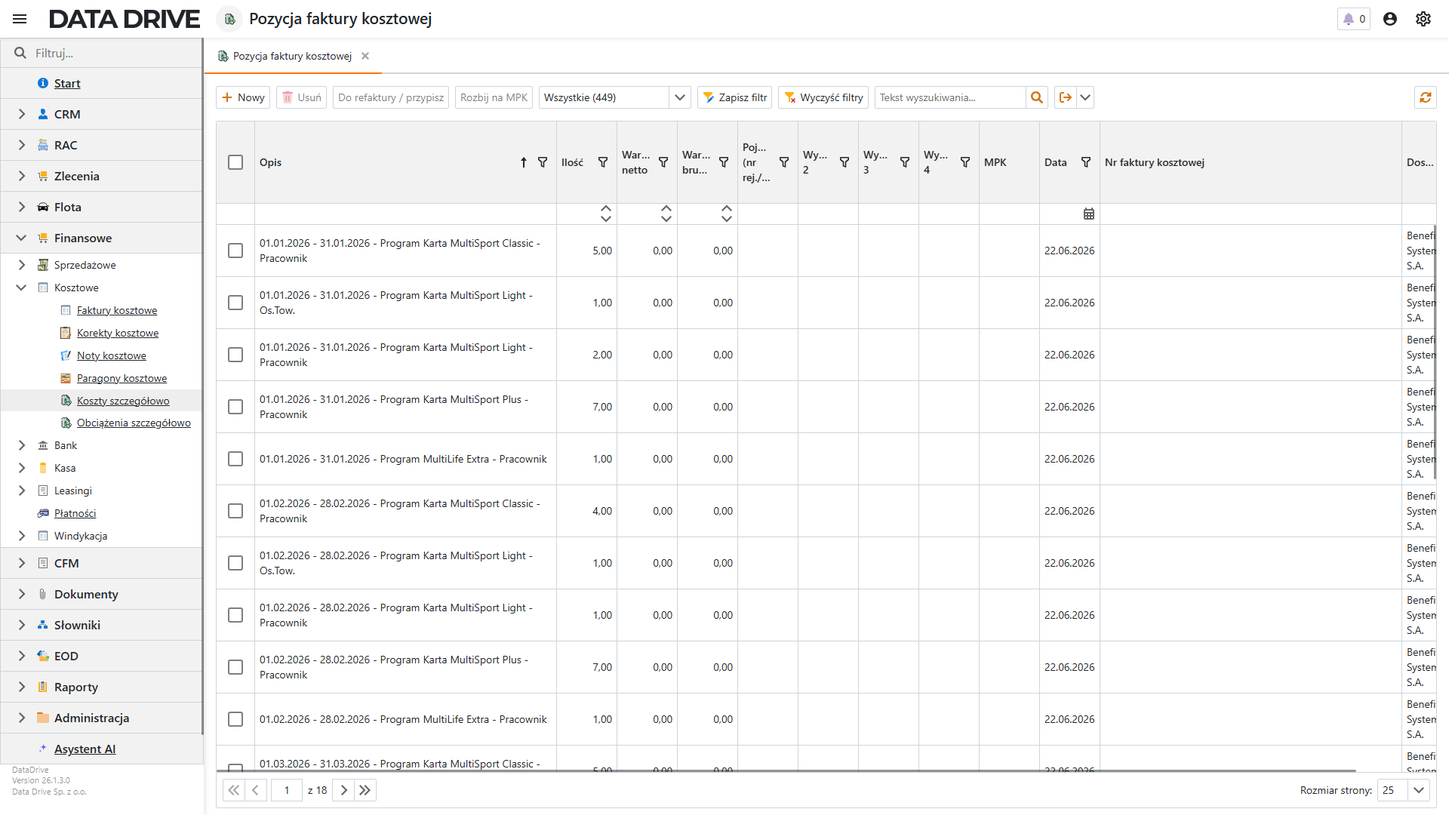
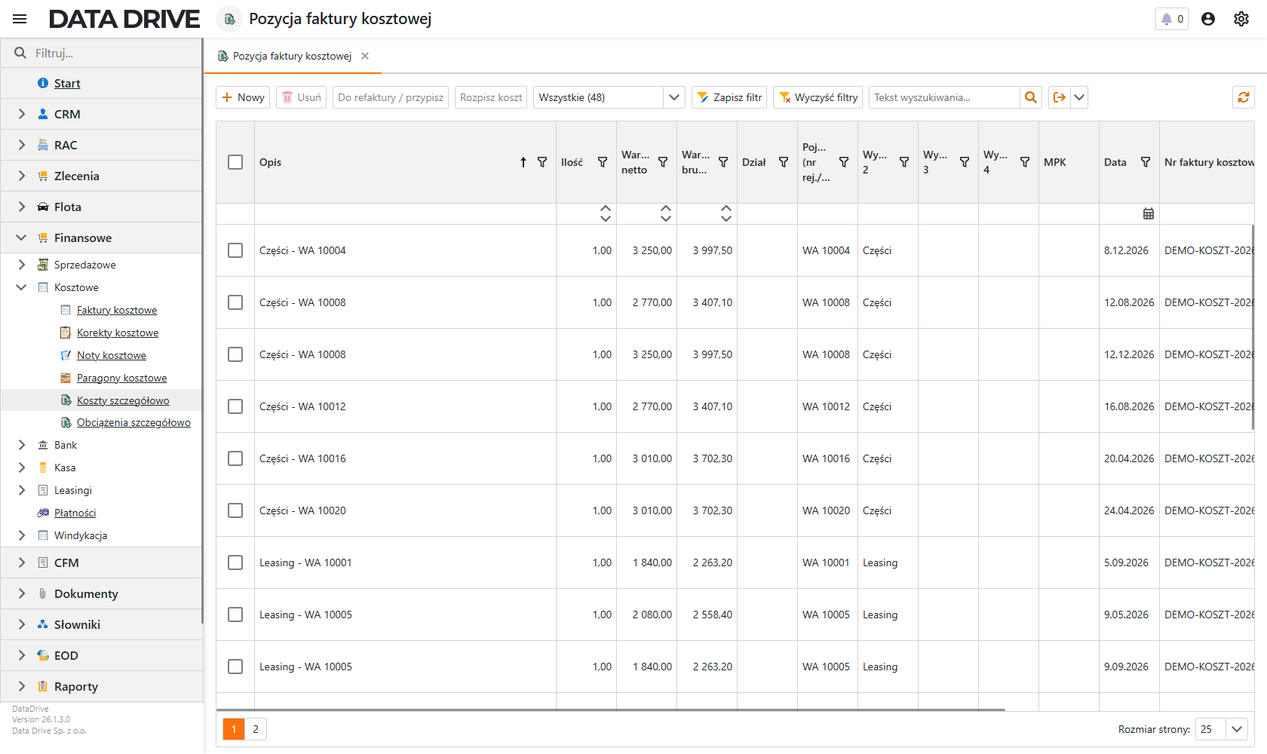
Podręcznik: widoki szczegółów i omówienie pól w czterech rozdziałach
Rozliczanie kosztów: wymyślone tabelki „planowanego podziału" zastąpione
realnymi ekranami dwuetapowego rozpisania kosztu (liczba części → siatka
pozycji wynikowych z kontrolą sum → wynik na liście), nowa sekcja
przypisania zbiorczego „Do refaktury / przypisz", omówienie kolumn listy
i wszystkich pól karty pozycji. Zrzuty listy i karty odświeżone — poprzednie
pokazywały zerowe kwoty i nieaktualną nazwę akcji.

Parkingi: karta miejsca parkingowego z omówieniem pól.
Flota: karta zdarzenia serwisowego (wypełniona) z omówieniem pól.
Faktury: karta produktu z omówieniem pól katalogu.

Claude-Session: https://claude.ai/code/session_01R2rkK8S6FK1ub1dPoNnos2

diff --git a/datadrive/rozliczanie-kosztow/index.html b/datadrive/rozliczanie-kosztow/index.html
@@ -35,12 +35,14 @@
       <a href="#zrodla">Źródła danych</a>
       <a href="#transakcje">Lista transakcji</a>
       <a href="#wymiary">Wymiary kosztowe</a>
-      <a href="#kategoria">Kategoria kosztu</a>
+      <a href="#kategoria">Koszty szczegółowo</a>
+      <a href="#pozycja-detal">Pozycja faktury kosztowej</a>
+      <a href="#przypisanie-zbiorcze">Przypisanie zbiorcze</a>
       <a href="#produkty">Produkty ujednolicone</a>
       <a href="#konsolidacja">Konsolidacja produktów</a>
       <a href="#analizy">Analiza przed i po</a>
       <a href="#rozbicie-kosztow">Rozbicie po kosztach</a>
-      <a href="#planowany-podzial">Planowany podział pozycji</a>
+      <a href="#rozpisanie">Rozpisanie kosztu na części</a>
     </div>
     <a href="/datadrive/pojazdy/">🚚 Flota — pojazdy i serwisy</a>
     <span class="navi">🧑✈ Kierowcy <span class="soon">wkrótce</span></span>
@@ -119,27 +121,84 @@
       <p>Transakcja zostanie powiązana z pojazdem, a MPK ustawi się według kartoteki pojazdu. Gdy zmienisz domyślne MPK pojazdu lub karty, odśwież listę i sprawdź wynik.</p>
       <div class="callout tip"><strong>Wskazówka:</strong> poprawiaj źródło wymiaru zamiast pojedynczego wyniku. Ustaw MPK na pojeździe lub karcie, a kierowcę w wydaniu karty. Kolejne transakcje dostaną wtedy właściwe dane automatycznie.</div>
 
-      <h2 id="kategoria">Kategoria kosztu i MPK na fakturze kosztowej</h2>
-      <p>Kategoria kosztu jest polem pozycji faktury kosztowej. Użyj jej, gdy transakcja została powiązana z fakturą lub gdy rozliczasz koszt poza kartą paliwową. Każdy wiersz na liście <span class="ui">Koszty szczegółowo</span> jest pozycją faktury, dlatego może mieć własną kategorię, pojazd, MPK i pozostałe wymiary. Przykładowe kategorie to paliwo, opłaty drogowe, myjnia albo materiały eksploatacyjne.</p>
+      <h2 id="kategoria">Lista „Koszty szczegółowo”</h2>
+      <p>Lista <span class="ui">Koszty szczegółowo</span> zbiera pozycje wszystkich faktur kosztowych w jednym miejscu. Każdy wiersz jest pojedynczą pozycją dokumentu, dlatego może mieć własną kategorię, pojazd, dział, MPK i wymiary analityczne. To jest ekran, na którym opisujesz koszt tak, żeby raport potrafił go pogrupować.</p>
+      <p>Przejdź do <span class="ui">Finansowe → Kosztowe → Koszty szczegółowo</span> w lewym menu.</p>
       <figure>
-        <img src="img/09-koszty-szczegolowo.png" alt="Lista Koszty szczegółowo z pozycjami faktur i akcją Rozbij na MPK">
-        <figcaption>„Koszty szczegółowo” pokazują pozycje faktur. Zaznaczoną pozycję można opisać kategorią i wymiarami albo rozbić na mniejsze części.</figcaption>
+        <img src="img/09-koszty-szczegolowo.png" alt="Lista Koszty szczegółowo z pozycjami faktur kosztowych, kwotami netto i brutto oraz akcjami Do refaktury / przypisz i Rozpisz koszt">
+        <figcaption>Lista „Koszty szczegółowo” — pozycje faktur z kwotami, pojazdem i kategorią. Na pasku akcji są dwa narzędzia rozliczeniowe: <span class="ui">Do refaktury / przypisz</span> oraz <span class="ui">Rozpisz koszt</span>.</figcaption>
       </figure>
+      <dl class="fields">
+        <div><dt>Opis</dt><dd>Nazwa pozycji z faktury dostawcy. Pozycje powstałe z rozpisania mają w opisie dopisek <span class="ui">(część 1/3)</span>.</dd></div>
+        <div><dt>Ilość</dt><dd>Ilość z pozycji dokumentu. Po rozpisaniu kosztu suma ilości części odpowiada ilości źródłowej.</dd></div>
+        <div><dt>Wartość netto, Wartość brutto</dt><dd>Kwoty pozycji. To one trafiają do analiz kosztowych.</dd></div>
+        <div><dt>Dział</dt><dd>Jednostka organizacyjna odpowiedzialna za wydatek. Ustawia się przy rozpisaniu kosztu.</dd></div>
+        <div><dt>Pojazd (nr rej./VIN)</dt><dd>Pierwszy wymiar analityczny. Aplikacja wypełnia go numerem rejestracyjnym rozpoznanego pojazdu.</dd></div>
+        <div><dt>Wymiar 2, Wymiar 3, Wymiar 4</dt><dd>Dodatkowe wymiary do własnych podziałów firmy, na przykład projekt albo umowa.</dd></div>
+        <div><dt>MPK</dt><dd>Centrum kosztowe pozycji. Puste pole oznacza, że raport użyje MPK pojazdu, a gdy i tego brak — MPK z nagłówka faktury.</dd></div>
+        <div><dt>Data</dt><dd>Data transakcji pozycji, a gdy jej nie ma — data wystawienia dokumentu.</dd></div>
+        <div><dt>Nr faktury kosztowej</dt><dd>Numer dokumentu, z którego pochodzi pozycja. Pozwala wrócić do faktury źródłowej.</dd></div>
+      </dl>
+
+      <h2 id="pozycja-detal">Pozycja faktury kosztowej</h2>
+      <p>Kartę pozycji otwierasz dwuklikiem w wiersz listy. Znajdziesz na niej dane handlowe pozycji oraz sekcję <span class="ui">Rozliczenie kosztu</span>, w której opisujesz, kogo ten wydatek obciąża.</p>
       <figure>
-        <img src="img/08-pozycja-kosztowa.png" alt="Pozycja faktury kosztowej z sekcją Rozliczenie kosztu i polami Pojazd, Kategoria oraz Data transakcji">
-        <figcaption>Pozycja faktury kosztowej — sekcja „Rozliczenie kosztu” zawiera pojazd, kategorię i pozostałe dane analityczne.</figcaption>
+        <img src="img/08-pozycja-kosztowa.png" alt="Karta pozycji faktury kosztowej z sekcjami Pozycja, Rozliczenie kosztu i Refaktura, wypełniona danymi zakupu części dla pojazdu WA 10004">
+        <figcaption>Karta pozycji „Części - WA 10004” — sekcja <span class="ui">Pozycja</span> zawiera ilość i kwoty, sekcja <span class="ui">Rozliczenie kosztu</span> pojazd i kategorię, a sekcja <span class="ui">Refaktura</span> dane do obciążenia klienta.</figcaption>
       </figure>
-      <p>Aby przypisać kategorię kosztu i MPK, wykonaj następujące kroki:</p>
+      <p>Pola sekcji <span class="ui">Pozycja</span>:</p>
+      <dl class="fields">
+        <div><dt>Lp.</dt><dd>Numer porządkowy pozycji w dokumencie.</dd></div>
+        <div><dt>Produkt</dt><dd>Pozycja z katalogu produktów. Puste pole oznacza koszt opisany wyłącznie tekstem.</dd></div>
+        <div><dt>Opis</dt><dd>Nazwa pozycji. Pole wymagane — bez niego pozycji nie zapiszesz.</dd></div>
+        <div><dt>Ilość, Jednostka, Cena jedn. netto</dt><dd>Dane ilościowe pozycji. Aplikacja wylicza z nich wartość netto.</dd></div>
+        <div><dt>Stawka VAT</dt><dd>Stawka ze słownika, na przykład <span class="ui">23%</span>.</dd></div>
+        <div><dt>Wartość netto, Kwota VAT, Wartość brutto</dt><dd>Kwoty pozycji. Aplikacja przelicza je po zmianie ilości lub ceny.</dd></div>
+      </dl>
+      <p>Pola sekcji <span class="ui">Rozliczenie kosztu</span>:</p>
+      <dl class="fields">
+        <div><dt>Pojazd</dt><dd>Samochód, którego dotyczy koszt. To najważniejszy wymiar analityczny floty — bez niego koszt nie trafi do zestawienia pojazdu.</dd></div>
+        <div><dt>Kategoria</dt><dd>Rodzaj wydatku, na przykład <span class="ui">Części</span>, <span class="ui">Leasing</span> albo <span class="ui">Myjnia</span>. Kategorie pochodzą ze słownika kategorii kosztów.</dd></div>
+        <div><dt>Data transakcji</dt><dd>Dzień zakupu. Steruje przypisaniem kosztu do miesiąca w raportach.</dd></div>
+        <div><dt>Stan licznika</dt><dd>Przebieg pojazdu w dniu zakupu. Po zapisie aplikacja dopisuje go do historii przebiegów pojazdu.</dd></div>
+        <div><dt>Nr stacji / oddziału</dt><dd>Miejsce zakupu z danych dostawcy. Przydaje się przy reklamacjach i kontroli tankowań.</dd></div>
+        <div><dt>Numer rejestracyjny</dt><dd>Aplikacja wylicza to pole z pojazdu, a przy jego braku z danych importu. Służy do grupowania w tabelach przestawnych.</dd></div>
+        <div><dt>Miesiąc</dt><dd>Aplikacja wylicza etykietę miesiąca, na przykład <span class="ui">gru 2026</span>, z daty transakcji lub daty dokumentu.</dd></div>
+      </dl>
+      <p>Aby opisać pojedynczy koszt, wykonaj następujące kroki:</p>
       <ol class="steps">
-        <li>Przejdź do <span class="ui">Finansowe → Kosztowe → Koszty szczegółowo</span>.</li>
-        <li>Otwórz pozycję faktury powiązaną z rozliczanym zakupem.</li>
-        <li>W sekcji <span class="ui">Rozliczenie kosztu</span> wpisz lub wybierz <span class="ui">Kategorię</span>.</li>
-        <li>Wskaż <span class="ui">Pojazd</span>. Pozostaw MPK puste, jeśli ma wynikać z pojazdu lub nagłówka faktury.</li>
-        <li>Uzupełnij <span class="ui">MPK</span> tylko wtedy, gdy ta pozycja ma trafić do innego centrum kosztowego.</li>
-        <li>Kliknij <span class="ui">Zapisz</span>.</li>
+        <li>Przejdź do <span class="ui">Finansowe → Kosztowe → Koszty szczegółowo</span> w lewym menu.</li>
+        <li>Kliknij dwukrotnie wiersz z rozliczaną pozycją.</li>
+        <li>W sekcji <span class="ui">Rozliczenie kosztu</span> wskaż <span class="ui">Pojazd</span>.</li>
+        <li>Wybierz <span class="ui">Kategorię</span> odpowiadającą rodzajowi wydatku.</li>
+        <li>Opcjonalnie uzupełnij <span class="ui">Stan licznika</span> i <span class="ui">Datę transakcji</span>.</li>
+        <li>Kliknij <span class="ui">Zapisz</span> w prawym górnym rogu.</li>
       </ol>
-      <p>Pozycja otrzyma kategorię i efektywne MPK. Raporty kosztowe będą mogły grupować ją według pojazdu, kategorii oraz centrum kosztowego.</p>
-      <div class="callout warn"><strong>Ważne:</strong> MPK wpisane bezpośrednio na pozycji faktury ma pierwszeństwo przed MPK pojazdu i nagłówka faktury. Używaj tego nadpisania tylko dla wyjątków.</div>
+      <p>Pozycja zostanie powiązana z pojazdem i kategorią, a raporty kosztowe będą mogły grupować ją według obu tych wymiarów.</p>
+      <div class="callout note"><strong>Uwaga:</strong> karta pozycji nie zawiera pól <span class="ui">Dział</span> i <span class="ui">MPK</span>. Puste MPK oznacza, że raport bierze MPK pojazdu, a gdy pojazd go nie ma — MPK z nagłówka faktury kosztowej. Własny dział i MPK nadajesz pozycji przy <a href="#rozpisanie">rozpisaniu kosztu</a>.</div>
+
+      <h2 id="przypisanie-zbiorcze">Przypisanie zbiorcze pojazdu i refaktury</h2>
+      <p>Import z karty paliwowej potrafi zostawić kilkadziesiąt pozycji bez rozpoznanego pojazdu. Zamiast otwierać każdą z osobna, opisz je razem akcją <span class="ui">Do refaktury / przypisz</span>. Ustawiasz w niej pojazd, znacznik refaktury i procent obciążenia klienta dla wszystkich zaznaczonych pozycji naraz.</p>
+      <p>Aby opisać wiele pozycji jednocześnie, wykonaj następujące kroki:</p>
+      <ol class="steps">
+        <li>Przejdź do <span class="ui">Finansowe → Kosztowe → Koszty szczegółowo</span> w lewym menu.</li>
+        <li>Zaznacz pola wyboru przy pozycjach, które mają dostać te same dane. Zaznacz co najmniej dwie.</li>
+        <li>Kliknij <span class="ui">Do refaktury / przypisz</span> na pasku akcji.</li>
+        <li>W oknie <span class="ui">Ustaw dane / do refaktury</span> wskaż <span class="ui">Pojazd</span>.</li>
+        <li>Zaznacz <span class="ui">Oznacz do refaktury</span>, jeśli koszt ma zostać przeniesiony na klienta, i podaj <span class="ui">Procent do refaktury</span>.</li>
+        <li>Kliknij <span class="ui">OK</span>.</li>
+      </ol>
+      <figure>
+        <img src="img/13-przypisz-zbiorczo.png" alt="Okno Ustaw dane / do refaktury z polem Pojazd i znacznikiem Oznacz do refaktury, otwarte dla trzech zaznaczonych pozycji kosztowych">
+        <figcaption>Okno akcji zbiorczej otwarte dla trzech zaznaczonych pozycji. Wypełnione pola trafią do wszystkich zaznaczonych wierszy, puste zostaną pominięte.</figcaption>
+      </figure>
+      <dl class="fields">
+        <div><dt>Pojazd</dt><dd>Samochód, który obciążają zaznaczone pozycje. Puste pole zostawia dotychczasowy pojazd bez zmian.</dd></div>
+        <div><dt>Oznacz do refaktury</dt><dd>Włącza przeniesienie kosztu na klienta. Znacznik działa tylko w jedną stronę — zaznaczenie go ustawia refakturę, a pozostawienie pustego nie zdejmuje jej z pozycji.</dd></div>
+        <div><dt>Procent do refaktury (0.00–1.00)</dt><dd>Udział kosztu przenoszony na klienta. Wartość <span class="ui">1,00</span> oznacza całość, <span class="ui">0,50</span> połowę.</dd></div>
+      </dl>
+      <p>Zaznaczone pozycje otrzymają wskazane dane, a aplikacja przeliczy kwotę do refaktury klienta.</p>
+      <div class="callout note"><strong>Uwaga:</strong> akcja jest aktywna dopiero po zaznaczeniu <strong>co najmniej dwóch pozycji</strong>. Pojedynczą pozycję opisujesz na jej karcie.</div>
 
       <h2 id="produkty">Dlaczego tworzymy produkty ujednolicone</h2>
       <p>Dostawcy nazywają ten sam towar inaczej. Benzyna 95 może wystąpić jako <span class="ui">BEZOLOW 95</span> w danych BP i <span class="ui">EFECTA 95</span> w danych Orlen. UTA może przesłać jeszcze inną nazwę lub kod. Bez ujednolicenia raport potraktuje je jak oddzielne produkty.</p>
@@ -238,39 +297,66 @@
       <p>W sekcji analiz wybierz pozycje kosztowe, wartość brutto lub netto oraz grupowanie, na przykład <span class="ui">Kategoria kosztu → MPK → Pojazd</span>. Suma pozycji szczegółowych powinna zgadzać się z sumą dokumentów w tym samym zakresie.</p>
       <div class="callout tip"><strong>Praktyczny układ raportu:</strong> zacznij od kategorii kosztu, rozwiń wybraną kategorię do MPK, a następnie do pojazdu. Dostaniesz czytelne podsumowanie i możliwość sprawdzenia pojedynczych pozycji faktur.</div>
 
-      <h2 id="planowany-podzial">Planowany podział jednej pozycji kosztowej</h2>
-      <div class="callout warn"><strong>Funkcja planowana:</strong> opisany niżej drugi krok nie jest jeszcze dostępny. Zakres prac zapisano w <a href="https://github.com/kashiash/DataDrive/issues/479">issue #479</a>.</div>
-      <p>Dziś akcja <span class="ui">Rozbij na MPK</span> pyta o liczbę części i od razu tworzy pozycje potomne z równymi kwotami. Planowane rozszerzenie doda podgląd wszystkich części przed zapisem. Użytkownik będzie mógł od razu wskazać pojazdy, działy, MPK i kategorie.</p>
+      <h2 id="rozpisanie">Rozpisanie kosztu na kilka pozycji</h2>
+      <p>Jedna pozycja faktury często obciąża kilka działów albo kilka pojazdów. Dostawca wystawia wiersz „Opony — 20 szt.”, a w firmie te opony pojechały na pięć samochodów. Akcja <span class="ui">Rozpisz koszt</span> dzieli taką pozycję na części, którym nadajesz własne wymiary: pojazd, dział, MPK i kategorię.</p>
+      <p>Rozpisanie działa w dwóch krokach: najpierw podajesz, na ile części dzielisz koszt, a potem sprawdzasz i opisujesz wszystkie części przed zapisem.</p>
+
+      <h3>Krok 1: liczba części</h3>
+      <p>Aby rozpisać pozycję kosztową, wykonaj następujące kroki:</p>
       <ol class="steps">
-        <li>Zaznacz jedną pozycję na liście <span class="ui">Koszty szczegółowo</span> i wybierz <span class="ui">Rozbij na MPK</span>.</li>
-        <li>W pierwszym oknie wpisz liczbę nowych pozycji, na przykład <span class="ui">5</span>.</li>
-        <li>W drugim oknie sprawdź pięć przygotowanych wierszy. System domyślnie podzieli ilość i kwotę, a ewentualną różnicę zaokrąglenia doliczy do ostatniego wiersza.</li>
-        <li>Uzupełnij w każdym wierszu opis, pojazd, dział, MPK, kategorię kosztu i potrzebne wymiary.</li>
-        <li>Sprawdź podsumowanie ilości oraz wartości netto, VAT i brutto. Zapis będzie możliwy dopiero wtedy, gdy sumy będą zgodne z pozycją źródłową.</li>
+        <li>Przejdź do <span class="ui">Finansowe → Kosztowe → Koszty szczegółowo</span> w lewym menu.</li>
+        <li>Zaznacz pole wyboru przy jednej pozycji, którą chcesz rozpisać.</li>
+        <li>Kliknij <span class="ui">Rozpisz koszt</span> na pasku akcji nad listą.</li>
+        <li>W oknie <span class="ui">Rozbij pozycję na części</span> wpisz liczbę części w polu <span class="ui">Na ile części</span>.</li>
+        <li>Kliknij <span class="ui">Dalej</span>.</li>
       </ol>
+      <figure>
+        <img src="img/10-rozpisz-liczba.png" alt="Okno Rozbij pozycję na części z polem Na ile części wypełnionym wartością 3 i przyciskami Dalej oraz Anuluj">
+        <figcaption>Krok pierwszy — zaznaczona pozycja „Części - WA 10004” na 3&nbsp;250,00 zł netto zostanie podzielona na trzy części.</figcaption>
+      </figure>
+      <div class="callout note"><strong>Uwaga:</strong> akcja działa na <strong>jednej zaznaczonej pozycji</strong>. Przy zerowym lub wielokrotnym zaznaczeniu przycisk <span class="ui">Rozpisz koszt</span> pozostaje nieaktywny.</div>
 
-      <h3>Przykład: trzy komputery dla trzech działów</h3>
-      <table class="data-table">
-        <thead><tr><th>Pozycja</th><th>Ilość</th><th>Dział</th><th>MPK</th><th>Kategoria</th></tr></thead>
-        <tbody>
-          <tr><td>Komputer 1</td><td>1</td><td>Sprzedaż</td><td>MPK Sprzedaż</td><td>Sprzęt komputerowy</td></tr>
-          <tr><td>Komputer 2</td><td>1</td><td>Finanse</td><td>MPK Finanse</td><td>Sprzęt komputerowy</td></tr>
-          <tr><td>Komputer 3</td><td>1</td><td>IT</td><td>MPK IT</td><td>Sprzęt komputerowy</td></tr>
-        </tbody>
-      </table>
+      <h3>Krok 2: sprawdzenie i opisanie części</h3>
+      <p>Drugie okno pokazuje wszystkie przygotowane części razem z kontrolą sum. Aplikacja dzieli ilość i kwoty po równo, a resztę z zaokrąglenia dopisuje do ostatniej części — dlatego w przykładzie trzecia część ma 1&nbsp;083,34 zł zamiast 1&nbsp;083,33 zł.</p>
+      <figure>
+        <img src="img/11-rozpisz-siatka.png" alt="Okno Rozpisanie kosztu na pozycje szczegółowe z kwotami źródłowymi, sumami, różnicami i siatką trzech pozycji wynikowych">
+        <figcaption>Krok drugi — u góry kwoty źródłowe i kontrola sum (wszystkie różnice zerowe), niżej siatka <span class="ui">Pozycje wynikowe</span> z trzema częściami po 1&nbsp;332,50 zł brutto.</figcaption>
+      </figure>
+      <p>Pola kontrolne w górnej części okna (aplikacja wylicza je wszystkie):</p>
+      <dl class="fields">
+        <div><dt>Pozycja źródłowa</dt><dd>Opis dzielonej pozycji. Pozostaje ona na liście jako wiersz kontrolny.</dd></div>
+        <div><dt>Ilość źródłowa, Netto źródłowe, VAT źródłowy, Brutto źródłowe</dt><dd>Wartości pozycji przed podziałem. To punkt odniesienia dla sum.</dd></div>
+        <div><dt>Suma ilości, Suma netto, Suma VAT, Suma brutto</dt><dd>Bieżące sumy wszystkich części. Zmieniają się, gdy poprawisz kwotę w którymkolwiek wierszu.</dd></div>
+        <div><dt>Różnica ilości, Różnica netto, Różnica VAT, Różnica brutto</dt><dd>Odchylenie sum od pozycji źródłowej. Wartość <span class="ui">0,00</span> oznacza, że podział się domyka.</dd></div>
+      </dl>
+      <p>Kolumny siatki <span class="ui">Pozycje wynikowe</span>:</p>
+      <dl class="fields">
+        <div><dt>Lp.</dt><dd>Numer części. Aplikacja nadaje go automatycznie i nie zmienia się przy edycji.</dd></div>
+        <div><dt>Opis</dt><dd>Opis części. Domyślnie jest to opis źródłowy z dopiskiem <span class="ui">(część 1/3)</span>.</dd></div>
+        <div><dt>Ilość, Cena jedn. netto, Netto, VAT, Brutto</dt><dd>Kwoty części. Zmiana którejkolwiek natychmiast przelicza sumy i różnice u góry okna.</dd></div>
+        <div><dt>Pojazd</dt><dd>Samochód obciążany tą częścią kosztu. Dziedziczy się z pozycji źródłowej.</dd></div>
+        <div><dt>Dział</dt><dd>Jednostka organizacyjna, która ponosi tę część wydatku.</dd></div>
+        <div><dt>MPK</dt><dd>Centrum kosztowe tej części. To jedyne miejsce w aplikacji, w którym nadasz pozycji własne MPK.</dd></div>
+        <div><dt>Kategoria</dt><dd>Rodzaj kosztu części, na przykład <span class="ui">Opony</span> albo <span class="ui">Sprzęt komputerowy</span>.</dd></div>
+        <div><dt>Pojazd (nr rej./VIN), Wymiar 2, Wymiar 3, Wymiar 4</dt><dd>Wymiary analityczne przeniesione z pozycji źródłowej. Możesz je zmienić osobno dla każdej części.</dd></div>
+      </dl>
+      <p>Aby dokończyć rozpisanie, wykonaj następujące kroki:</p>
+      <ol class="steps">
+        <li>Popraw <span class="ui">Ilość</span> i kwoty w wierszach, jeśli podział ma być inny niż równy.</li>
+        <li>Uzupełnij w każdym wierszu <span class="ui">Pojazd</span>, <span class="ui">Dział</span>, <span class="ui">MPK</span> i <span class="ui">Kategorię</span>.</li>
+        <li>Sprawdź, czy wszystkie pola <span class="ui">Różnica</span> pokazują <span class="ui">0,00</span>.</li>
+        <li>Kliknij <span class="ui">Zapisz podział</span> w prawym dolnym rogu okna.</li>
+      </ol>
+      <div class="callout warn"><strong>Ważne:</strong> sumy części muszą zgadzać się z pozycją źródłową. Dopóki którakolwiek <strong>różnica jest niezerowa</strong>, podział nie odda pełnej kwoty faktury i analizy się nie zbilansują.</div>
 
-      <h3>Przykład: dwadzieścia opon dla pięciu pojazdów</h3>
-      <table class="data-table">
-        <thead><tr><th>Pozycja</th><th>Ilość</th><th>Pojazd</th><th>Kategoria</th></tr></thead>
-        <tbody>
-          <tr><td>Opony — część 1</td><td>4</td><td>Pojazd 1</td><td>Opony</td></tr>
-          <tr><td>Opony — część 2</td><td>4</td><td>Pojazd 2</td><td>Opony</td></tr>
-          <tr><td>Opony — część 3</td><td>4</td><td>Pojazd 3</td><td>Opony</td></tr>
-          <tr><td>Opony — część 4</td><td>4</td><td>Pojazd 4</td><td>Opony</td></tr>
-          <tr><td>Opony — część 5</td><td>4</td><td>Pojazd 5</td><td>Opony</td></tr>
-        </tbody>
-      </table>
-      <p>Po zapisaniu raport pokaże koszt opon osobno dla każdego pojazdu, lecz łączna ilość i wartość nadal będą zgodne z pierwotną pozycją faktury. Pozycja źródłowa pozostanie elementem kontrolnym i nie może podwajać sum w analizach.</p>
+      <h3>Wynik rozpisania</h3>
+      <p>Po zapisaniu na liście <span class="ui">Koszty szczegółowo</span> pojawiają się nowe pozycje — po jednej na każdą część — a pozycja źródłowa zostaje jako wiersz kontrolny.</p>
+      <figure>
+        <img src="img/12-rozpisz-wynik.png" alt="Lista Koszty szczegółowo po rozpisaniu: pozycja źródłowa na 3250 zł i pod nią trzy pozycje część 1/3, 2/3 i 3/3 po około 1083 zł">
+        <figcaption>Po zapisaniu podziału licznik pozycji wzrósł z 48 do 51. Pod pozycją źródłową (3&nbsp;250,00 zł) stoją trzy części: 1&nbsp;083,33 zł, 1&nbsp;083,33 zł i 1&nbsp;083,34 zł.</figcaption>
+      </figure>
+      <p>Koszt zostanie rozpisany na części, a każda z nich trafi do analiz z własnym pojazdem, działem i MPK.</p>
+      <div class="callout note"><strong>Uwaga:</strong> pozycja źródłowa pozostaje na liście jako wiersz kontrolny. Analizy kosztowe liczą pozycje wynikowe, więc kwota faktury nie podwaja się w raportach.</div>
 
       <div class="pager">
         <a href="/datadrive/korekty/" class="prev"><div class="lbl">‹ Poprzedni</div><div class="ttl">Korekty sprzedaży</div></a>

diff --git a/datadrive/pojazdy/index.html b/datadrive/pojazdy/index.html
@@ -143,15 +143,28 @@
         <img src="img/06-nowe-zdarzenie.png" alt="Okno nowego zdarzenia serwisowego z polami Typ zdarzenia, Status, Tytuł, Opis, Data zdarzenia, Przebieg przy zdarzeniu, Warsztat oraz Koszt">
         <figcaption>Okno nowego zdarzenia serwisowego — typ, status, tytuł i data obok pól kosztu, przebiegu i warsztatu.</figcaption>
       </figure>
+      <p>Zapisane zdarzenie otwierasz dwuklikiem w wiersz listy. Karta pokazuje komplet danych obsługi, a w dolnej części zakładki z dokumentami i pozycjami kosztorysu.</p>
+      <figure>
+        <img src="img/07-zdarzenie-detal.png" alt="Karta zdarzenia pojazdu: planowany serwis Wymiana oleju i filtrów, status Rozwiązane, data 3.06.2026, przebieg 22 500 km, warsztat Serwis Toyota Warszawa, koszt 420 zł">
+        <figcaption>Karta zdarzenia „Wymiana oleju i filtrów” — planowany serwis zamknięty tego samego dnia, przy przebiegu 22&nbsp;500 km, za 420,00 zł.</figcaption>
+      </figure>
       <dl class="fields">
         <div><dt>Typ zdarzenia</dt><dd>Rodzaj zdarzenia: Planowany serwis, Planowana naprawa, Awaria albo Szkoda.</dd></div>
         <div><dt>Status</dt><dd>Etap obsługi: Otwarte, W trakcie, Rozwiązane albo Anulowane.</dd></div>
-        <div><dt>Tytuł</dt><dd>Krótki opis zdarzenia, na przykład „Przegląd okresowy 30 000 km”. Pole wymagane.</dd></div>
-        <div><dt>Data zdarzenia, Data zakończenia</dt><dd>Kiedy zdarzenie wystąpiło i kiedy je zamknięto.</dd></div>
-        <div><dt>Przebieg przy zdarzeniu (km)</dt><dd>Stan licznika w chwili zdarzenia.</dd></div>
-        <div><dt>Warsztat / serwis</dt><dd>Nazwa warsztatu. Kontrahenta z bazy wskażesz osobno w polu <span class="ui">Warsztat (kontrahent)</span>.</dd></div>
-        <div><dt>Koszt (PLN)</dt><dd>Koszt zdarzenia. Przy szkodzie podaj też <span class="ui">Nr szkody</span>.</dd></div>
+        <div><dt>Tytuł</dt><dd>Krótki opis zdarzenia, na przykład „Wymiana oleju i filtrów”. Pole wymagane.</dd></div>
+        <div><dt>Opis</dt><dd>Miejsce na szczegóły zakresu prac i ustalenia z warsztatem.</dd></div>
+        <div><dt>Data zdarzenia, Planowana data naprawy, Data zakończenia</dt><dd>Kiedy zdarzenie wystąpiło, kiedy zaplanowano naprawę i kiedy ją zamknięto.</dd></div>
+        <div><dt>Przebieg przy zdarzeniu (km)</dt><dd>Stan licznika w chwili zdarzenia. Wykorzystują go raporty kosztu na kilometr.</dd></div>
+        <div><dt>Szerokość geogr., Długość geogr.</dt><dd>Miejsce zdarzenia. Uzupełnij przy awarii w trasie, żeby udokumentować lokalizację holowania.</dd></div>
+        <div><dt>Warsztat / serwis</dt><dd>Nazwa warsztatu wpisana tekstem. Kontrahenta z bazy wskażesz w polu <span class="ui">Warsztat (kontrahent)</span>.</dd></div>
+        <div><dt>Nr szkody</dt><dd>Numer szkody ubezpieczeniowej. Wypełnij, gdy zdarzenie jest szkodą.</dd></div>
+        <div><dt>Koszt (PLN)</dt><dd>Koszt zdarzenia. To wartość, która trafia do zestawień kosztów utrzymania pojazdu.</dd></div>
+        <div><dt>Źródło kosztorysu, Nr kosztorysu, Data kosztorysu</dt><dd>Dane kosztorysu z warsztatu. Aplikacja wypełnia je, gdy kosztorys przyszedł z integracji.</dd></div>
+        <div><dt>Nr zlecenia serwisu, Data zlecenia serwisu</dt><dd>Numer i data zlecenia po stronie warsztatu — ułatwiają reklamację i kontrolę terminu.</dd></div>
+        <div><dt>Kosztorys netto, Kosztorys VAT, Kosztorys brutto</dt><dd>Kwoty z kosztorysu. Porównaj je z polem <span class="ui">Koszt (PLN)</span>, zanim zaakceptujesz fakturę.</dd></div>
+        <div><dt>Powiązana zajętość</dt><dd>Wpis w kalendarzu zajętości pojazdu na czas naprawy. Dzięki niemu pojazd nie zostanie w tym czasie wydany.</dd></div>
       </dl>
+      <div class="callout warn"><strong>Ważne:</strong> akcja <span class="ui">Wymagaj autoryzacji</span> na górnym pasku włącza kontrolę kwoty. Zdarzenie z tym znacznikiem czeka na zatwierdzenie kwoty przez osobę uprawnioną, zanim koszt trafi do rozliczenia.</div>
       <div class="callout tip"><strong>Wskazówka:</strong> zdarzenia dodane z karty pojazdu i z ekranu <span class="ui">Serwisy / przeglądy</span> trafiają do tego samego rejestru. Wybierz drogę, która jest wygodniejsza — efekt jest identyczny.</div>
 
       <div class="pager">

diff --git a/datadrive/parkingi/index.html b/datadrive/parkingi/index.html
@@ -103,6 +103,26 @@
         <div><dt>Bieżący przydział</dt><dd>Oznaczenie miejsca, na którym trwa przydział — potwierdza, że stanowisko jest w użyciu.</dd></div>
       </dl>
 
+      <p>Kartę miejsca otwierasz dwuklikiem w wiersz listy. Znajdziesz na niej pełne dane stanowiska oraz akcje <span class="ui">Przydziel miejsce</span> i <span class="ui">Zwolnij miejsce</span>.</p>
+      <figure>
+        <img src="img/03b-miejsce-detal.png" alt="Karta miejsca parkingowego A001 na Parkingu Serwisowym: typ Stałe, stan Aktywne, strefa A, dostępność Zajęte i pracownik Piotr Gdański">
+        <figcaption>Karta miejsca „A001” — komplet danych stanowiska. U góry akcje przydziału, na dole zakładki z historią przydziałów i cechami dodatkowymi.</figcaption>
+      </figure>
+      <dl class="fields">
+        <div><dt>Parking</dt><dd>Parking, do którego należy stanowisko. Pole wymagane — miejsce zawsze stoi na konkretnym parkingu.</dd></div>
+        <div><dt>Oznaczenie</dt><dd>Kod miejsca, na przykład <span class="ui">A001</span>. Pole wymagane, musi być niepowtarzalne w obrębie parkingu.</dd></div>
+        <div><dt>Typ miejsca</dt><dd><span class="ui">Stałe</span> dla stanowisk przypisanych na dłużej, pozostałe typy dla miejsc wydawanych na pojedyncze dni.</dd></div>
+        <div><dt>Stan operacyjny</dt><dd><span class="ui">Aktywne</span> oznacza miejsce w użyciu. Stanowisko wyłączone z eksploatacji zmień na stan nieaktywny zamiast je kasować.</dd></div>
+        <div><dt>Strefa</dt><dd>Strefa parkingu, z której miejsce zostało rozpisane.</dd></div>
+        <div><dt>Rząd, Nr w rzędzie, Etykieta rzędu</dt><dd>Pozycja w siatce strefy. Aplikacja wypełnia je przy zakładaniu miejsc z siatki.</dd></div>
+        <div><dt>Plan, Na planie, Pozycja ustawiona ręcznie</dt><dd>Powiązanie z planem graficznym parkingu. Znacznik <span class="ui">Pozycja ustawiona ręcznie</span> chroni ręcznie przesunięty punkt przed nadpisaniem przy ponownym rozpisaniu siatki.</dd></div>
+        <div><dt>Udogodnienia</dt><dd>Wyposażenie stanowiska, na przykład ładowarka albo zadaszenie. Szczegóły opisujesz w zakładce <span class="ui">Cechy dodatkowe</span>.</dd></div>
+        <div><dt>Dostępność</dt><dd>Aplikacja wylicza to pole z aktywnych przydziałów: <span class="ui">Wolne</span> albo <span class="ui">Zajęte</span>.</dd></div>
+        <div><dt>Bieżący przydział</dt><dd>Przydział trwający w dniu dzisiejszym. Puste pole oznacza wolne stanowisko.</dd></div>
+        <div><dt>Pojazd, Pracownik</dt><dd>Kto obecnie korzysta z miejsca. Aplikacja przepisuje te dane z bieżącego przydziału.</dd></div>
+      </dl>
+      <div class="callout tip"><strong>Wskazówka:</strong> zakładka <span class="ui">Historia przydziałów</span> pokazuje wszystkie okresy użytkowania miejsca na osi czasu. Zajrzyj tam, zanim ustalisz, że stanowisko od dawna stoi puste.</div>
+
       <h2 id="przydzialy">Przydział miejsca</h2>
       <p>Przydział łączy miejsce z osobą lub pojazdem na wskazany okres. Ekran <span class="ui">Przydziały miejsc</span> pokazuje pełny obraz, pogrupowany po parkingu, więc sytuację czytasz oddział po oddziale.</p>
       <figure>

diff --git a/datadrive/faktury/index.html b/datadrive/faktury/index.html
@@ -68,6 +68,22 @@
         <img src="img/01-produkty.png" alt="Lista szesnastu produktów i usług — wynajem pojazdów, usługi serwisowe i opłaty — z ceną netto i stawką VAT 23%">
         <figcaption>Katalog produktów i usług — wynajem pojazdów różnych klas, usługi serwisowe i opłaty dodatkowe, każda z ceną netto i stawką VAT.</figcaption>
       </figure>
+      <dl class="fields">
+        <div><dt>Nazwa</dt><dd>Nazwa produktu widoczna na fakturze, na przykład <span class="ui">Assistance drogowy — doba</span>.</dd></div>
+        <div><dt>Opis</dt><dd>Krótkie wyjaśnienie, co obejmuje pozycja. Pomaga wybrać właściwy produkt przy wystawianiu.</dd></div>
+        <div><dt>Cena jednostkowa</dt><dd>Cena netto podstawiana na pozycję faktury. Na samej fakturze możesz ją zmienić.</dd></div>
+        <div><dt>Stawka VAT</dt><dd>Stawka ze słownika, najczęściej <span class="ui">23%</span>.</dd></div>
+        <div><dt>Kategoria</dt><dd>Grupa katalogowa produktu. Ułatwia filtrowanie długiego cennika.</dd></div>
+        <div><dt>Dostępny</dt><dd>Odznacz, gdy produkt wychodzi z oferty. Zniknie z podpowiedzi, ale zostanie na wystawionych już fakturach.</dd></div>
+        <div><dt>Kod GTU</dt><dd>Kod grupy towarowo-usługowej do JPK. Wypełnij, jeśli sprzedaż podlega oznaczeniom GTU.</dd></div>
+      </dl>
+      <p>Kartę produktu otwierasz dwuklikiem w wiersz katalogu.</p>
+      <figure>
+        <img src="img/01b-produkt-detal.png" alt="Karta produktu Assistance drogowy — doba z ceną 15,00 zł, stawką VAT 23%, opisem i znacznikiem Dostępny">
+        <figcaption>Karta produktu „Assistance drogowy — doba” — cena netto 15,00 zł, stawka 23% i opis, który podpowiada, czego dotyczy usługa.</figcaption>
+      </figure>
+      <div class="callout tip"><strong>Wskazówka:</strong> pole <span class="ui">Opis</span> jest edytorem tekstu sformatowanego. Możesz w nim wypunktować zakres usługi, a treść trafi na fakturę razem z nazwą produktu.</div>
+
       <p>Aby dodać produkt do katalogu, wykonaj następujące kroki:</p>
       <ol class="steps">
         <li>Przejdź do <span class="ui">Słowniki → Produkty i usługi</span> i kliknij <span class="ui">Nowy</span>.</li>
